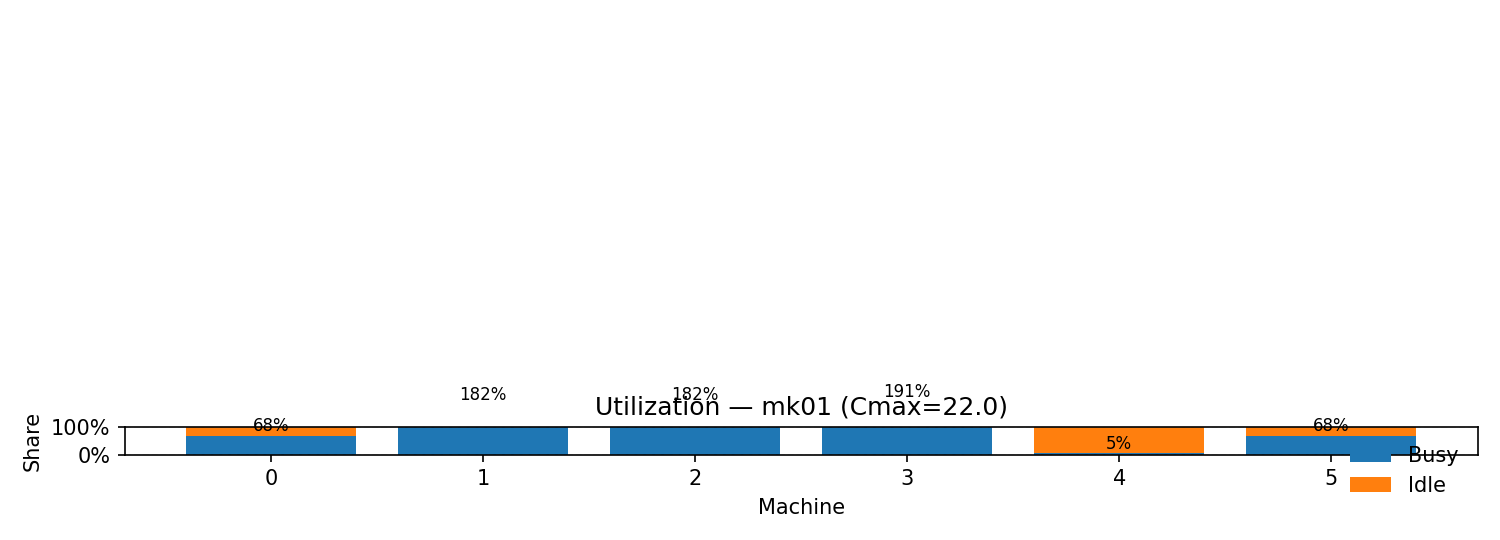
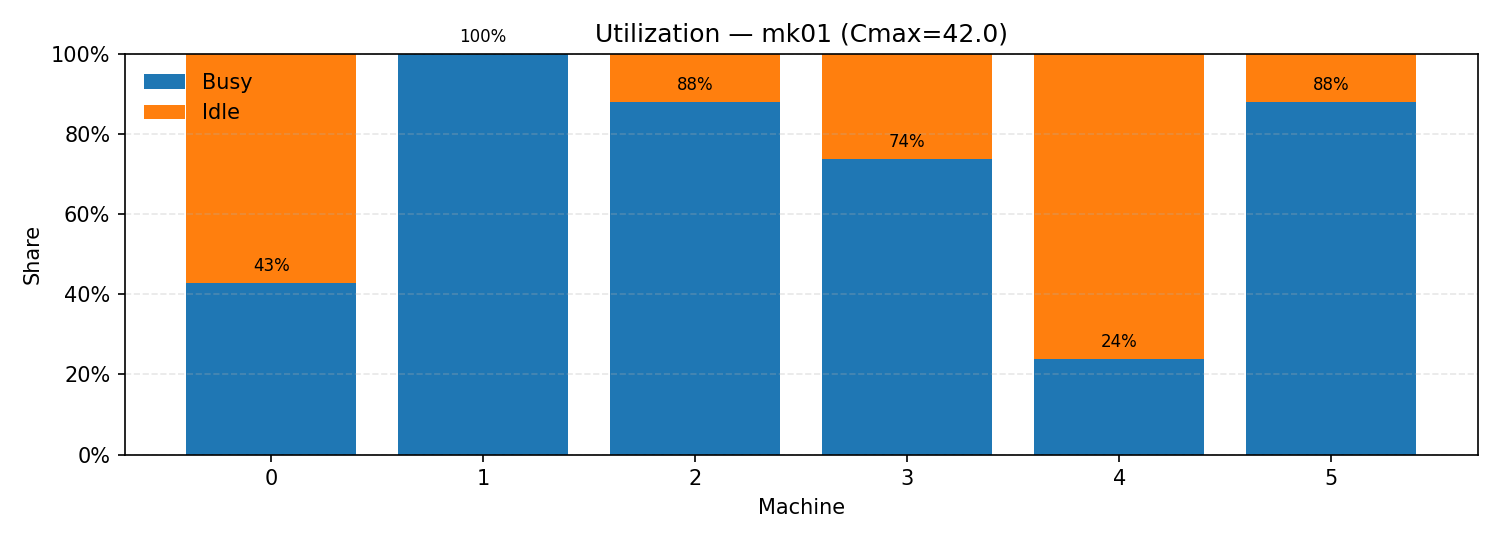
fix model error
last version was wrong. The model didn't restrict a machine to process at most one job at the same time. This actually leads to the model reached its best lb ( LP relaxation). After the fix it acts well but another issue comes out, which is this model actually can't efficiently push its lb, resulting the solving process always exceed time limit. I try to refine constraints to move lb and ub more wisely but it turns out it's not that successful. I guess now the solution should be correct, but I still want to figure out a way to guide gurobi convergely solving this thing, or I might need to find another way to prove the solution's  optimality

diff --git a/src/fjsp_makespan.py b/src/fjsp_makespan.py
@@ -17,7 +17,7 @@ from pyomo.environ import (
     Objective, Constraint, minimize, SolverFactory, value
 )
 
-# ===== 1) 读取 routing.csv 并构建基础数据 =====
+# ===== 读取 routing.csv 并构建基础数据 =====
 def load_routing(routing_csv: Path):
     """
     读取 routing.csv，返回：
@@ -51,8 +51,31 @@ def load_routing(routing_csv: Path):
     machines = sorted({m for em in eligible.values() for m in em})
     return ops, eligible, proc_time, pred, machines, jk2i
 
+# 在 MILP 的 LP 松弛里，二元 x 变成分数，LP 实际上是在解一个“分数指派 + 机器容量”的线性松弛。
+# 在完全可分配（允许拆分）且无排序冲突的理想情况下，机器容量逼出的最小完工时间
+def compute_assignment_LB(ops, eligible, proc_time, machines):
+    O = [iop for (iop,_,_) in ops]
+    model = ConcreteModel()
+    model.O = Set(initialize=O)
+    model.M = Set(initialize=machines)
+    # 连续松弛变量（允许分数指派）
+    X_index = [(op,i) for op in O for i in eligible[op]]
+    model.x = Var(X_index, domain=NonNegativeReals)
+    model.T = Var(domain=NonNegativeReals)
 
-# ===== 2) 计算紧化用下界 ES 和总上界 H =====
+    def assign_rule(m, op):
+        return sum(m.x[(op,i)] for i in eligible[op]) == 1
+    model.Assign = Constraint(model.O, rule=assign_rule)
+
+    def cap_rule(m, i):
+        return sum(proc_time[(op,i)]*m.x[(op,i)] for op in O if (op,i) in m.x) <= m.T
+    model.Cap = Constraint(model.M, rule=cap_rule)
+
+    model.OBJ = Objective(expr=model.T, sense=minimize)
+    SolverFactory("gurobi").solve(model, tee=False)
+    return float(value(model.T))
+
+# ===== 计算紧化用下界 ES 和总上界 H =====
 def bounds_for_bigM(ops, eligible, proc_time):
     """
     返回：
@@ -77,7 +100,7 @@ def bounds_for_bigM(ops, eligible, proc_time):
     return pmin, ES, H
 
 
-# ===== 3) 生成“相邻弧”结构 =====
+# ===== 生成“相邻弧”结构 =====
 def build_adj_structures(I, M, eligible, ES, H):
     """
     相邻序列建模所需的结构：
@@ -127,7 +150,7 @@ def build_adj_structures(I, M, eligible, ES, H):
 
     return Vi, arcs_all, arcs_opop, in_keys, incoming, out_keys, outgoing, Mbig, Ui
 
-# ===== 4) 建 Pyomo 模型 =====
+# ===== 建 Pyomo 模型 =====
 def build_model_adj(ops, eligible, proc_time, pred, machines, ES, H,
                     Vi, arcs_all, arcs_opop, in_keys, incoming, out_keys, outgoing, Mbig, Ui):
     """
@@ -172,6 +195,8 @@ def build_model_adj(ops, eligible, proc_time, pred, machines, ES, H,
     # MTZ 序变量（机级）：索引为 (i, op) 仅对真实操作
     UIndex = [(i, op) for i in M for op in Vi[i]]
     model.UIndex = Set(dimen=2, initialize=UIndex)
+    # 机器是否被使用的二元变量（确保每台机至多/恰好一条链）
+    model.w = Var(model.M, domain=Binary)
 
     def u_bounds(m, i, op):
         return (0.0, float(Ui[i]))
@@ -216,13 +241,67 @@ def build_model_adj(ops, eligible, proc_time, pred, machines, ES, H,
         return sum(m.y[(i, a, b)] for b in m._outgoing[(i, a)]) == m.x[(a, i)]
     model.OutDeg = Constraint(model.OutKeys, rule=outdeg_rule)
 
-    # 7) MTZ 防子环（机级）
+    # 7) MTZ 防子环（base on machine）
     #    u_{i,b} >= u_{i,a} + 1 - Ui[i]*(1 - y_{i,a,b})，仅对 操作->操作 弧
     def mtz_rule(m, i, a, b):
         return m.u[(i, b)] >= m.u[(i, a)] + 1 - Ui[i] * (1 - m.y[(i, a, b)])
     model.MTZ = Constraint(model.ArcsOpOp, rule=mtz_rule)
-
+    
     # 8) makespan：对每个作业末工序
+    jobs = {}
+    for iop, j, k in ops:
+        jobs.setdefault(j, []).append((k, iop))
+    i_end_list = [iop for j, ks in jobs.items() for (_, iop) in [max(ks)]]
+
+    # 以下9）~ 12）约束是新增的为了防止出现重叠并行任务
+    # 9）源点 SRC 的“起点数” = w[i]（有链才有一个起点）
+    def src_degree_rule(m, i):
+        terms = [m.y[(i, 'SRC', b)]
+                 for (ii, a, b) in m.ArcsAll
+                 if ii == i and a == 'SRC' and b != 'SNK']
+        if len(terms) == 0:
+            # 这台机本身就没有可加工的操作
+            return m.w[i] == 0
+        return sum(terms) == m.w[i]
+    model.SrcDegree = Constraint(model.M, rule=src_degree_rule)
+
+    # 10）汇点 SNK 的“终点数” = w[i]
+    def snk_degree_rule(m, i):
+        terms = [m.y[(i, a, 'SNK')]
+                 for (ii, a, b) in m.ArcsAll
+                 if ii == i and b == 'SNK' and a != 'SRC']
+        if len(terms) == 0:
+            return m.w[i] == 0
+        return sum(terms) == m.w[i]
+    model.SnkDegree = Constraint(model.M, rule=snk_degree_rule)
+
+    # 11）x ⇒ w（有任意指派则 w[i] 必须为 1）
+    def x_implies_w_rule(m, i):
+        Vi_size = len(Vi[i])
+        if Vi_size == 0:
+            return m.w[i] == 0
+        return sum(m.x[(op, i)] for op in Vi[i]) <= Vi_size * m.w[i]
+    model.XImpliesW = Constraint(model.M, rule=x_implies_w_rule)
+
+    # 12）w ⇒ x（w[i]=1 时至少有一个指派，避免“空链”）
+    def w_implies_x_rule(m, i):
+        if len(Vi[i]) == 0:
+            return m.w[i] == 0
+        return m.w[i] <= sum(m.x[(op, i)] for op in Vi[i])
+    model.WImpliesX = Constraint(model.M, rule=w_implies_x_rule)
+
+    # 以下两个约束13）和14）是为了加强模型下界，减少剪枝的复杂度
+    # 13）机器负荷下界：每台机 i：Σ_{op∈Vi[i]} p_{i,op} * x[(op,i)] <= Cmax
+    def load_rule(m, i):
+        # Vi 和 p_im 是 build_model_adj 里已有的局部变量（上文构造过）
+        return sum(p_im[(op, i)] * m.x[(op, i)] for op in Vi[i]) <= m.Cmax
+    model.MachineLoad = Constraint(model.M, rule=load_rule)
+
+    # 14）最早开始/最早完成的显式下界：把预处理得到的 ES（earliest start）加进模型，能帮 LP 找到更紧的时间窗口
+    def es_rule(m, op):
+        return m.S[op] >= ES[op]   # ES 作为 build_model_adj 的入参已经传进来
+    model.EarliestStart = Constraint(model.I, rule=es_rule)
+
     jobs = {}
     for iop, j, k in ops:
         jobs.setdefault(j, []).append((k, iop))
@@ -243,16 +322,16 @@ def build_model_adj(ops, eligible, proc_time, pred, machines, ES, H,
     return model
 
 
-# ===== 5) Warm Start：给初值和相邻弧 =====
+# ===== Warm Start：给初值和相邻弧 =====
 def warm_start(model, ops, eligible, proc_time):
-    # 5.1 x：每个操作分配到最短加工时间的机器
+    # x：每个操作分配到最短加工时间的机器
     for (i, _, _) in ops:
         m_star = min(eligible[i], key=lambda m: proc_time[(i, m)])
         for m in eligible[i]:
             if (i, m) in model.x:
                 model.x[(i, m)].value = 1.0 if m == m_star else 0.0
 
-    # 5.2 S/C：按作业顺序前推（不考虑同机冲突，仅给一个粗初值）
+    #  S/C：按作业顺序前推（不考虑同机冲突，仅给一个粗初值）
     cur = defaultdict(float)
     for _, j, k in sorted(ops, key=lambda t: (t[1], t[2])):
         i = next(ii for (ii, jj, kk) in ops if jj == j and kk == k)
@@ -285,24 +364,7 @@ def warm_start_adj(model, ops, eligible, proc_time):
             if (m,op) in model.u: model.u[(m,op)].value = float(rank)
 
 
-# ===== 6) 求解（使用 Gurobi） =====
-def solve_with_gurobi(model, time_limit=300, mip_gap=0.02, threads=8,
-                      mip_focus=1, heuristics=0.2, presolve=2, cuts=2, log_file=None):
-    solver = SolverFactory("gurobi")
-    solver.options["TimeLimit"] = time_limit
-    solver.options["MIPGap"] = mip_gap
-    solver.options["Threads"] = threads
-    solver.options["MIPFocus"] = mip_focus
-    solver.options["Heuristics"] = heuristics
-    solver.options["Presolve"] = presolve
-    solver.options["Cuts"] = cuts
-    if log_file:
-        solver.options["LogFile"] = str(log_file)
-    result = solver.solve(model, tee=True)
-    return result
-
-
-# ===== 7) 取解与快速可行性检查 =====
+# =====取解与快速可行性检查 =====
 def extract_schedule(model, ops, eligible):
     # 提取每个操作的分配机台与时间
     assignment = {}
@@ -404,36 +466,58 @@ def main():
     OUT_DIR.mkdir(parents=True, exist_ok=True)
     LOGS_DIR.mkdir(parents=True, exist_ok=True)
 
-    routing_csv = Path("data/processed/brandimarte/mk01/routing.csv")  # <<< 改成你的路径
+    # 1) 读取数据
+    routing_csv = Path(f"data/processed/brandimarte/{case_name}/routing.csv")
     assert routing_csv.exists(), f"routing.csv not found: {routing_csv}"
 
-    # 1) 读取数据、建模 
-    routing_csv = Path(f"data/processed/brandimarte/{case_name}/routing.csv")
+    # 2）建模
     ops, eligible, proc_time, pred, machines, jk2i = load_routing(routing_csv)
     pmin, ES, H = bounds_for_bigM(ops, eligible, proc_time)
     I_ops = [i for (i,_,_) in ops]
     Vi, arcs_all, arcs_opop, in_keys, incoming, out_keys, outgoing, Mbig, Ui = \
         build_adj_structures(I=I_ops, M=machines, eligible=eligible, ES=ES, H=H)
+    
+    # 为了更有效地推下界，考虑基于 routing.csv 的数据计算每个作业的最短加工时间之和并取最大，作为全局 Cmax 的下界
+    # ops: list of (op_id, job, ord), eligible: {op_id: [machines]}, proc_time: {(op_id, m): p}
+    # 按作业分组
+    job_ops = {}
+    for iop, j, k in ops:
+        job_ops.setdefault(j, []).append(iop)
+
+    # 每个操作的“最短可加工时间”（在可行机里取 min）
+    op_min_p = {}
+    for j, oplist in job_ops.items():
+        for op in oplist:
+            op_min_p[op] = min(proc_time[(op, m)] for m in eligible[op])
+
+    # 每个作业的最短总工时 & 全局下界
+    LB_job = {j: sum(op_min_p[op] for op in oplist) for j, oplist in job_ops.items()}
+    Cmax_lb_jobs = max(LB_job.values())
+
+    # 计算机器容量分配的赋值松弛下界（preemptive的情形）
+    LB_assign = compute_assignment_LB(ops, eligible, proc_time, machines)
 
     model = build_model_adj(ops, eligible, proc_time, pred, machines, ES, H,
                         Vi, arcs_all, arcs_opop, in_keys, incoming, out_keys, outgoing, Mbig, Ui)
-    
-    # 2) Warm Start
+    model.Cmax.setlb(max(Cmax_lb_jobs, int(LB_assign + 0.999)))
+
+    # 3) Warm Start
     warm_start(model, ops, eligible, proc_time)
     
-    # 3) 导出 LP / MPS 到指定目录
+    # 4) 导出 LP / MPS 到指定目录
     model.write(str(OUT_DIR / "model.mps"), format="mps")
 
-    # 4）调用Gurobi求解
+    # 5）调用Gurobi求解
     solver = SolverFactory("gurobi")
-    solver.options["LogFile"]    = str(LOGS_DIR / f"{case_name}_gurobi.log")
-    solver.options["TimeLimit"]  = 300
-    solver.options["MIPGap"]     = 0.02
-    solver.options["Threads"]    = 16
-    solver.options["MIPFocus"]   = 1
-    solver.options["Heuristics"] = 0.2
-    solver.options["Presolve"]   = 2
-    solver.options["Cuts"]       = 2
+    solver.options["LogFile"]       = str(LOGS_DIR / f"{case_name}_gurobi.log")
+    solver.options["TimeLimit"]     = 300
+    solver.options["MIPGap"]        = 0.02
+    solver.options["Threads"]       = 16
+    solver.options["MIPFocus"]      = 1
+    solver.options["Heuristics"]    = 0.2
+    solver.options["Presolve"]      = 2
+    solver.options["Cuts"]          = 2
+    solver.options["NodefileStart"] = 0.5                     # 因为求解过程过长因此考虑中途保存记录
 
     solver.options["ResultFile"] = str(OUT_DIR / "solution.sol")
 
